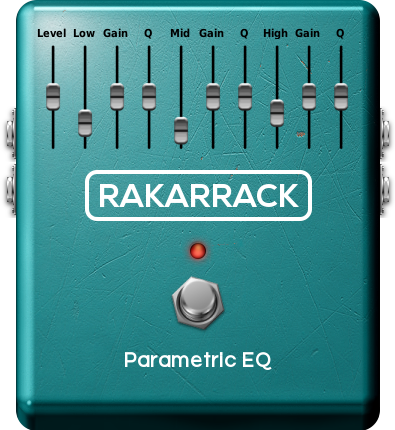
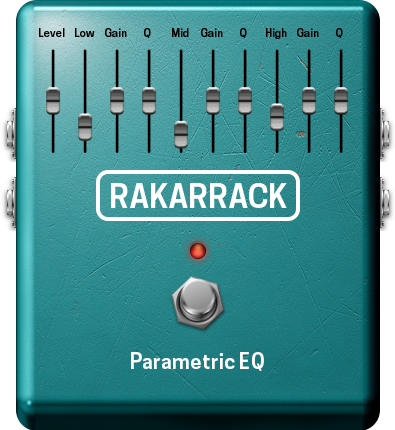
Fix modguis with sliders (cropped text)

diff --git a/plugins-fixed/ZaMultiComp.lv2/modgui/stylesheet-zamulticomp.css b/plugins-fixed/ZaMultiComp.lv2/modgui/stylesheet-zamulticomp.css
@@ -344,7 +344,6 @@
     display:block;
     font-size:11px;
     font-weight:bold;
-    height:7px;
     line-height:1;
     margin-bottom:3px;
     overflow:hidden;

diff --git a/plugins-fixed/ZaMultiCompX2.lv2/modgui/stylesheet-zamulticompx2.css b/plugins-fixed/ZaMultiCompX2.lv2/modgui/stylesheet-zamulticompx2.css
@@ -344,7 +344,6 @@
     display:block;
     font-size:11px;
     font-weight:bold;
-    height:7px;
     line-height:1;
     margin-bottom:3px;
     overflow:hidden;

diff --git a/plugins-fixed/ZamEQ2.lv2/modgui/stylesheet-zameq2.css b/plugins-fixed/ZamEQ2.lv2/modgui/stylesheet-zameq2.css
@@ -344,7 +344,6 @@
     display:block;
     font-size:11px;
     font-weight:bold;
-    height:7px;
     line-height:1;
     margin-bottom:3px;
     overflow:hidden;

diff --git a/plugins-fixed/ZamGEQ31.lv2/modgui/stylesheet-zamgeq31.css b/plugins-fixed/ZamGEQ31.lv2/modgui/stylesheet-zamgeq31.css
@@ -344,7 +344,6 @@
     display:block;
     font-size:11px;
     font-weight:bold;
-    height:7px;
     line-height:1;
     margin-bottom:3px;
     overflow:hidden;

diff --git a/plugins-fixed/fomp.lv2/modgui/stylesheet-4-band-parametric-filter.css b/plugins-fixed/fomp.lv2/modgui/stylesheet-4-band-parametric-filter.css
@@ -344,7 +344,6 @@
     display:block;
     font-size:11px;
     font-weight:bold;
-    height:7px;
     line-height:1;
     margin-bottom:3px;
     overflow:hidden;

diff --git a/plugins-fixed/midifilter.lv2/modgui/stylesheet-midi-channel-filter.css b/plugins-fixed/midifilter.lv2/modgui/stylesheet-midi-channel-filter.css
@@ -344,7 +344,6 @@
     display:block;
     font-size:11px;
     font-weight:bold;
-    height:7px;
     line-height:1;
     margin-bottom:3px;
     overflow:hidden;

diff --git a/plugins-fixed/midifilter.lv2/modgui/stylesheet-midi-channel-map.css b/plugins-fixed/midifilter.lv2/modgui/stylesheet-midi-channel-map.css
@@ -344,7 +344,6 @@
     display:block;
     font-size:11px;
     font-weight:bold;
-    height:7px;
     line-height:1;
     margin-bottom:3px;
     overflow:hidden;

diff --git a/plugins-fixed/midifilter.lv2/modgui/stylesheet-midi-event-filter.css b/plugins-fixed/midifilter.lv2/modgui/stylesheet-midi-event-filter.css
@@ -344,7 +344,6 @@
     display:block;
     font-size:11px;
     font-weight:bold;
-    height:7px;
     line-height:1;
     margin-bottom:3px;
     overflow:hidden;

diff --git a/plugins-fixed/midifilter.lv2/modgui/stylesheet-midi-keys-transpose.css b/plugins-fixed/midifilter.lv2/modgui/stylesheet-midi-keys-transpose.css
@@ -344,7 +344,6 @@
     display:block;
     font-size:11px;
     font-weight:bold;
-    height:7px;
     line-height:1;
     margin-bottom:3px;
     overflow:hidden;

diff --git a/plugins-fixed/rkr.lv2/modgui/stylesheet-rkr-eq.css b/plugins-fixed/rkr.lv2/modgui/stylesheet-rkr-eq.css
@@ -344,7 +344,6 @@
     display:block;
     font-size:11px;
     font-weight:bold;
-    height:7px;
     line-height:1;
     margin-bottom:3px;
     overflow:hidden;

diff --git a/plugins-fixed/rkr.lv2/modgui/stylesheet-rkr-infinity.css b/plugins-fixed/rkr.lv2/modgui/stylesheet-rkr-infinity.css
@@ -344,7 +344,6 @@
     display:block;
     font-size:11px;
     font-weight:bold;
-    height:7px;
     line-height:1;
     margin-bottom:3px;
     overflow:hidden;

diff --git a/plugins-fixed/rkr.lv2/modgui/stylesheet-rkr-parametric-eq.css b/plugins-fixed/rkr.lv2/modgui/stylesheet-rkr-parametric-eq.css
@@ -344,7 +344,6 @@
     display:block;
     font-size:11px;
     font-weight:bold;
-    height:7px;
     line-height:1;
     margin-bottom:3px;
     overflow:hidden;
